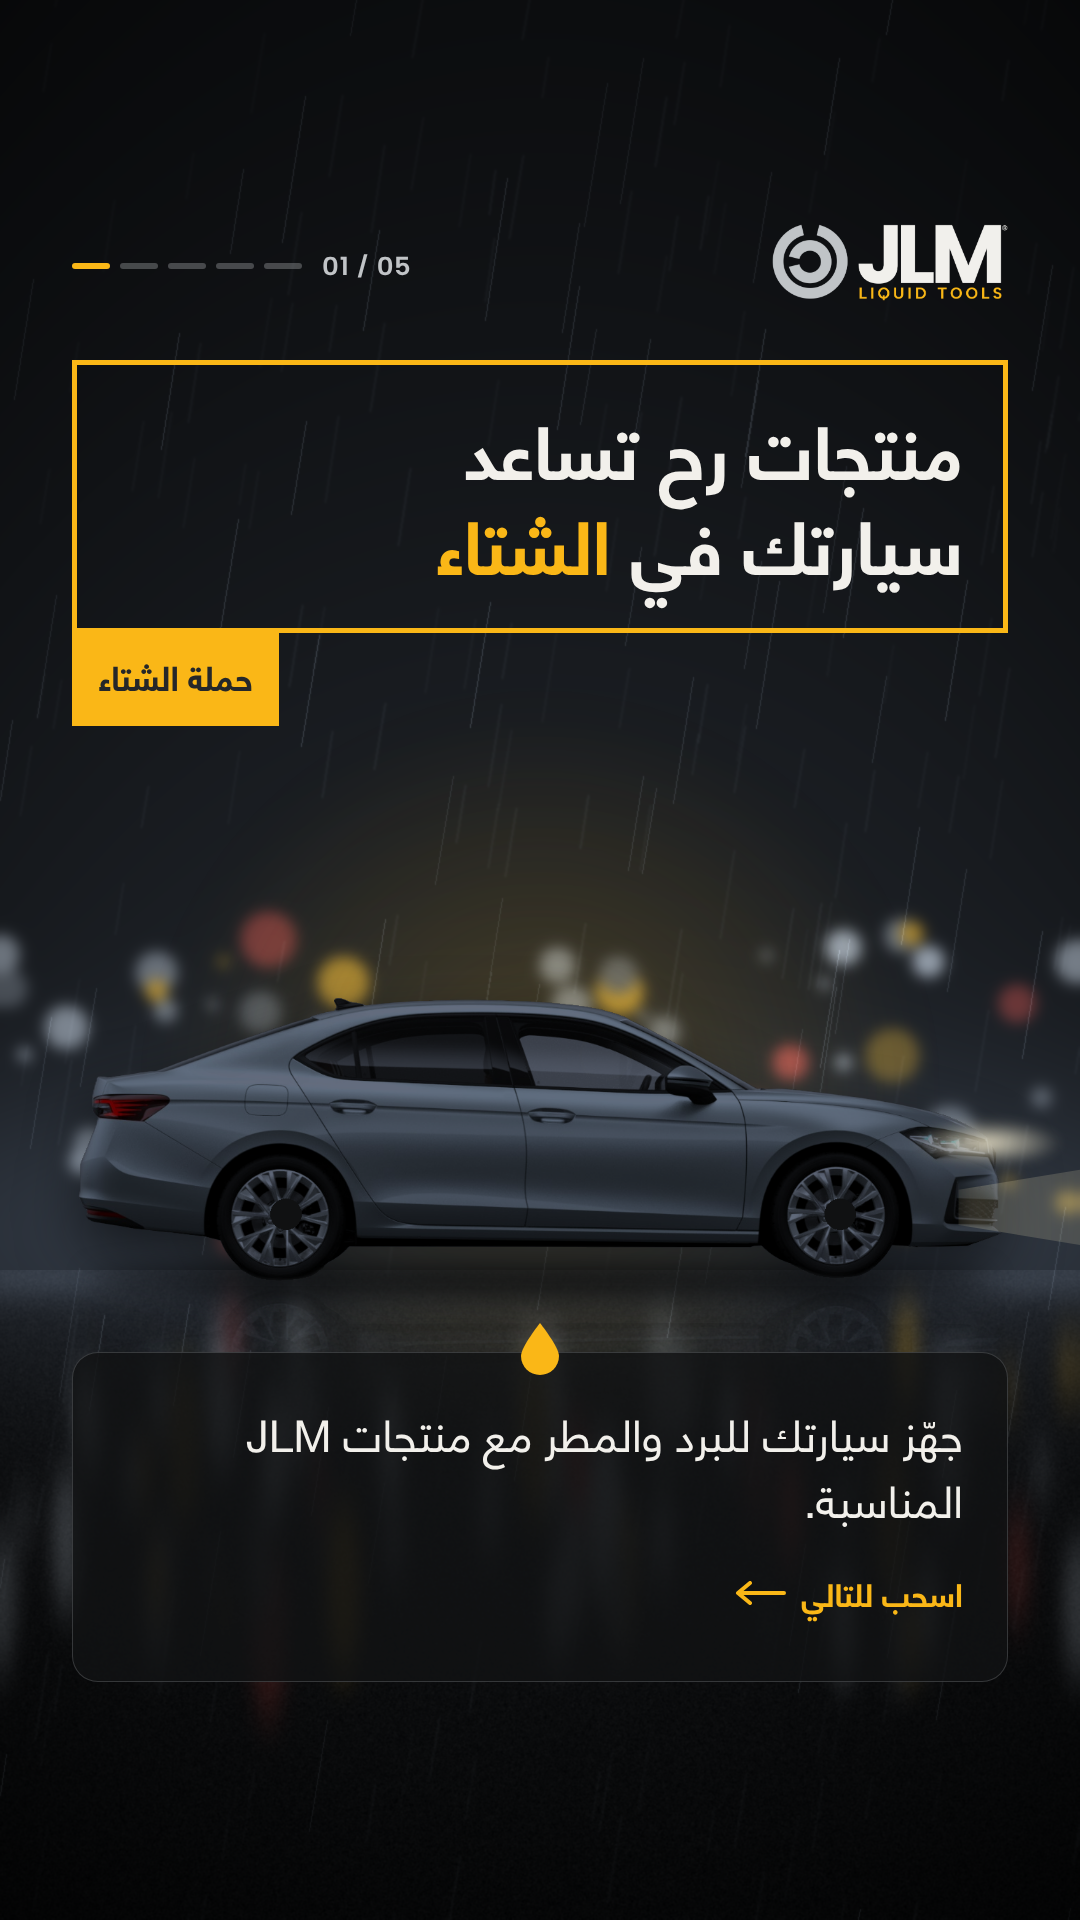
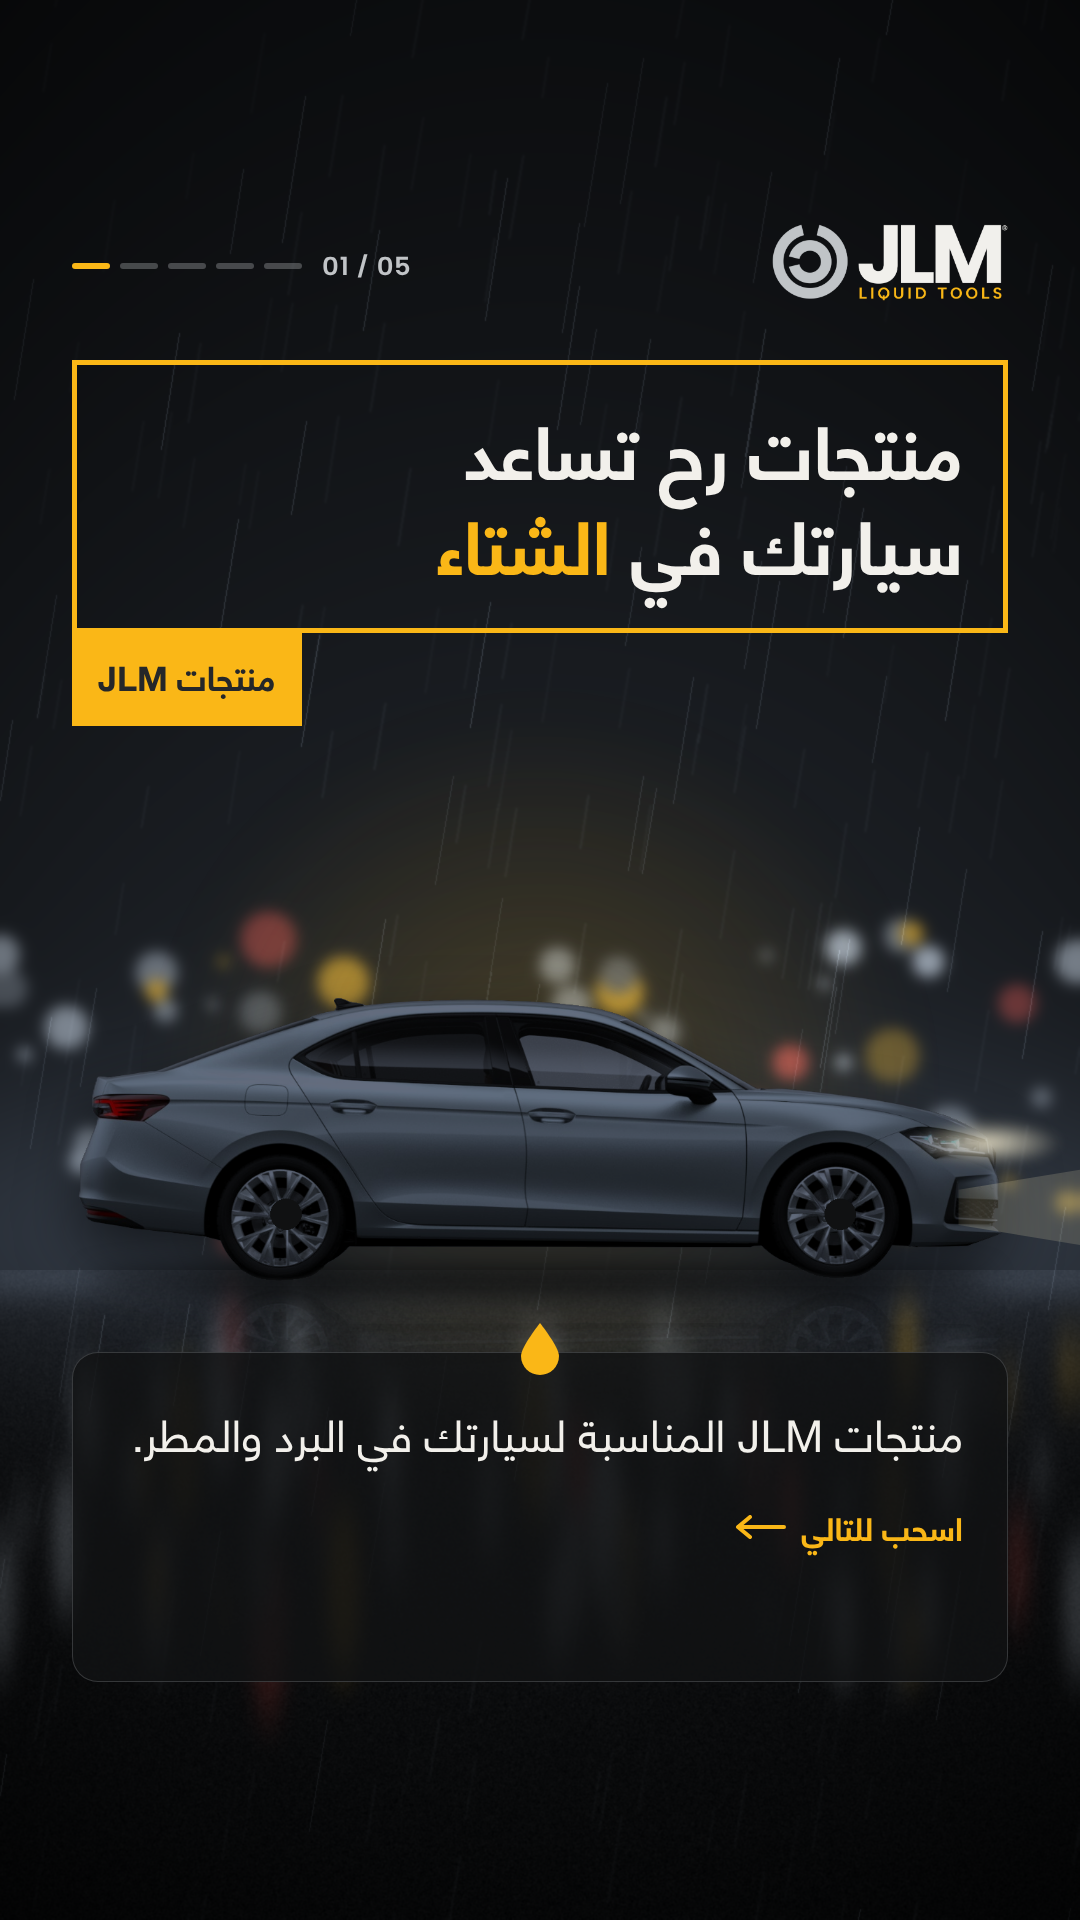
Winter stories: drop winter-check wording, «الصباح البارد»
Claude-Session: https://claude.ai/code/session_015ECzJR8MqpLz9gQAHyfRbz

diff --git a/marketing/social/jlm-winter-stories/scripts/build.py b/marketing/social/jlm-winter-stories/scripts/build.py
@@ -33,15 +33,15 @@ CAT = {"oil": "#B8935C", "service": "#3F72AA", "petrol": GREEN}
 STORIES = [
     {   # 1 · opening
         "kind": "intro",
-        "tag": "حملة الشتاء",
+        "tag": "منتجات JLM",
         "headline": "منتجات رح تساعد<br>سيارتك في <span class='y'>الشتاء</span>",
-        "body": "جهّز سيارتك للبرد والمطر مع منتجات JLM المناسبة.",
+        "body": "منتجات JLM المناسبة لسيارتك في البرد والمطر.",
     },
     {   # 2 · 5W-30 — label: "5W30 · Premium Grade Performance Oil · Synthetic";
         # SAE J300: the "W" grade is the winter (low-temperature) viscosity rating
         "kind": "product", "img": "oil_5w30.png", "h": 600, "cat": "oil", "cat_ar": "زيت المحرّك",
         "tag": "المحرّك",
-        "headline": "الصبح البارد<br>بدّه <span class='y'>زيت مناسب</span>",
+        "headline": "الصباح البارد<br>بدّه <span class='y'>زيت مناسب</span>",
         "name": "5W-30 Premium Grade Performance Oil",
         "benefit": "زيت اصطناعي بدرجة لزوجة 5W-30",
         "support": "حرف W يعني Winter: تصنيف SAE لأداء الزيت في درجات الحرارة المنخفضة.",
@@ -59,7 +59,7 @@ STORIES = [
         # chambers · Prevents new deposits across the fuel system · Perfect for routine fuel system care"
         "kind": "product", "img": "petrol_fuel_system_cleaner.png", "h": 640, "cat": "petrol", "cat_ar": "بنزين",
         "tag": "نظام الوقود",
-        "headline": "قبل الشتاء<br>نظّف <span class='y'>نظام الوقود</span>",
+        "headline": "حافظ على نظافة<br><span class='y'>نظام الوقود</span>",
         "name": "Fuel System Cleaner · Petrol",
         "benefit": "ينظّف البخاخات وغرف الاحتراق بعمق",
         "support": "مناسب للعناية الدورية بنظام الوقود، ويمنع تكوّن رواسب جديدة.",

diff --git a/marketing/social/jlm-winter-stories/README.md b/marketing/social/jlm-winter-stories/README.md
@@ -1,15 +1,15 @@
 # JLM Winter Campaign — 5 Instagram Stories
 
-«منتجات رح تساعد سيارتك في الشتاء» — five 1080×1920 stories from one master template (`scripts/build.py`).
+«منتجات رح تساعد سيارتك في الشتاء» — five 1080×1920 stories from one master template (`scripts/build.py`). Kept separate from the November winter-check campaign: no check / preparation wording.
 
 **Shared system:** night-rain background on wet asphalt (procedural, same file for all five); progress bars and `0N / 05` top-left; official `logo_on_dark.png` top-right in the same spot; headline in the JLM ATL yellow 5 px frame with a solid yellow tag; product standing on the wet floor with a reflection and a glow in its packaging category colour; info panel with the yellow brand drop. Fonts: Helvetica Neue LT Arabic + Albert Sans from `brand/jlm/fonts`. Colours: the brief palette (#FAB717, #252729, #376941, #F2F0EB, #C1C4C7).
 
 | # | Story | Product (original catalogue image) | Category colour | Copy source |
 |---|---|---|---|---|
 | 1 | Opening | — (night car) | yellow | campaign brief |
-| 2 | Cold mornings | 5W-30 Premium Grade Performance Oil | oil gold (label) | label: synthetic, 5W30; SAE J300: "W" = winter grade |
+| 2 | Cold mornings («الصباح البارد») | 5W-30 Premium Grade Performance Oil | oil gold (label) | label: synthetic, 5W30; SAE J300: "W" = winter grade |
 | 3 | Rain and rust | Penetrating Oil | service blue (label) | label: dissolves rust and displaces moisture; penetrates rusted and frozen parts; loosens bolts and nuts |
-| 4 | Fuel system | Fuel System Cleaner · Petrol | petrol green #376941 | label: deep cleans injectors and combustion chambers; prevents new deposits; routine fuel-system care |
+| 4 | Clean fuel system | Fuel System Cleaner · Petrol | petrol green #376941 | label: deep cleans injectors and combustion chambers; prevents new deposits; routine fuel-system care |
 | 5 | CTA | the three products | yellow | campaign brief; store URL jlmstore.com (brand bible) |
 
 ```
